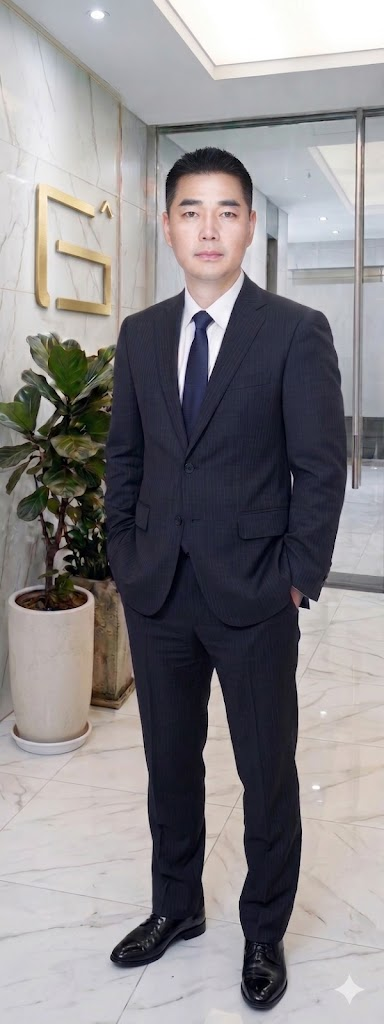
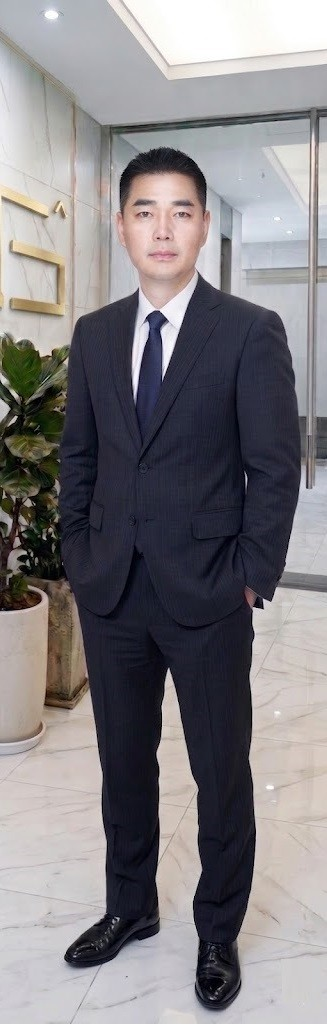
update: 회사소개 대표이사(CEO) 사진 교체 — 효과·레이아웃 그대로 유지
- redevelopment/jpg/ceo_portrait.jpg 이미지 교체 (384x1024 → 327x1027)
- about.html 캐시버스팅 v=20260418 → v=20260418i
- .ceo-photo-area CSS(그라데이션 오버레이, 반응형 크기) 및 마크업 변경 없음

https://claude.ai/code/session_01D1z92Je3M4FeC3JBuyfWRu

diff --git a/redevelopment/pages/about.html b/redevelopment/pages/about.html
@@ -741,7 +741,7 @@
                     </div>
                 </div>
                 <div class="ceo-photo-area">
-                    <img src="../jpg/ceo_portrait.jpg?v=20260418" alt="Charles Lee 대표이사">
+                    <img src="../jpg/ceo_portrait.jpg?v=20260418i" alt="Charles Lee 대표이사">
                 </div>
             </div>
         </div>
